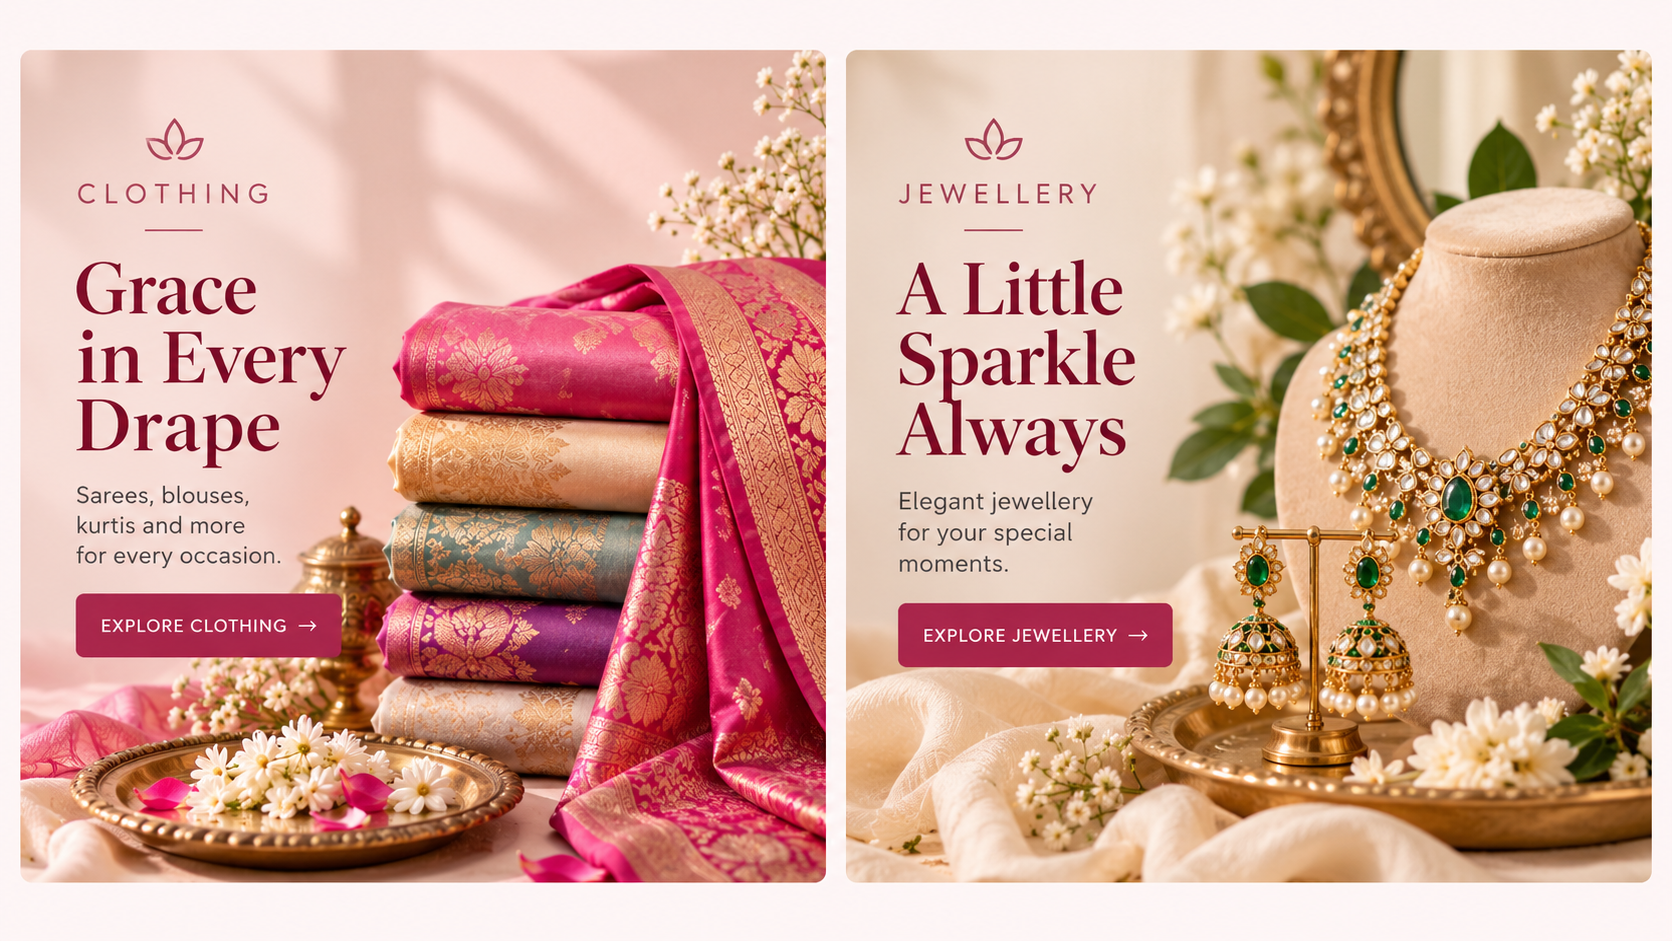
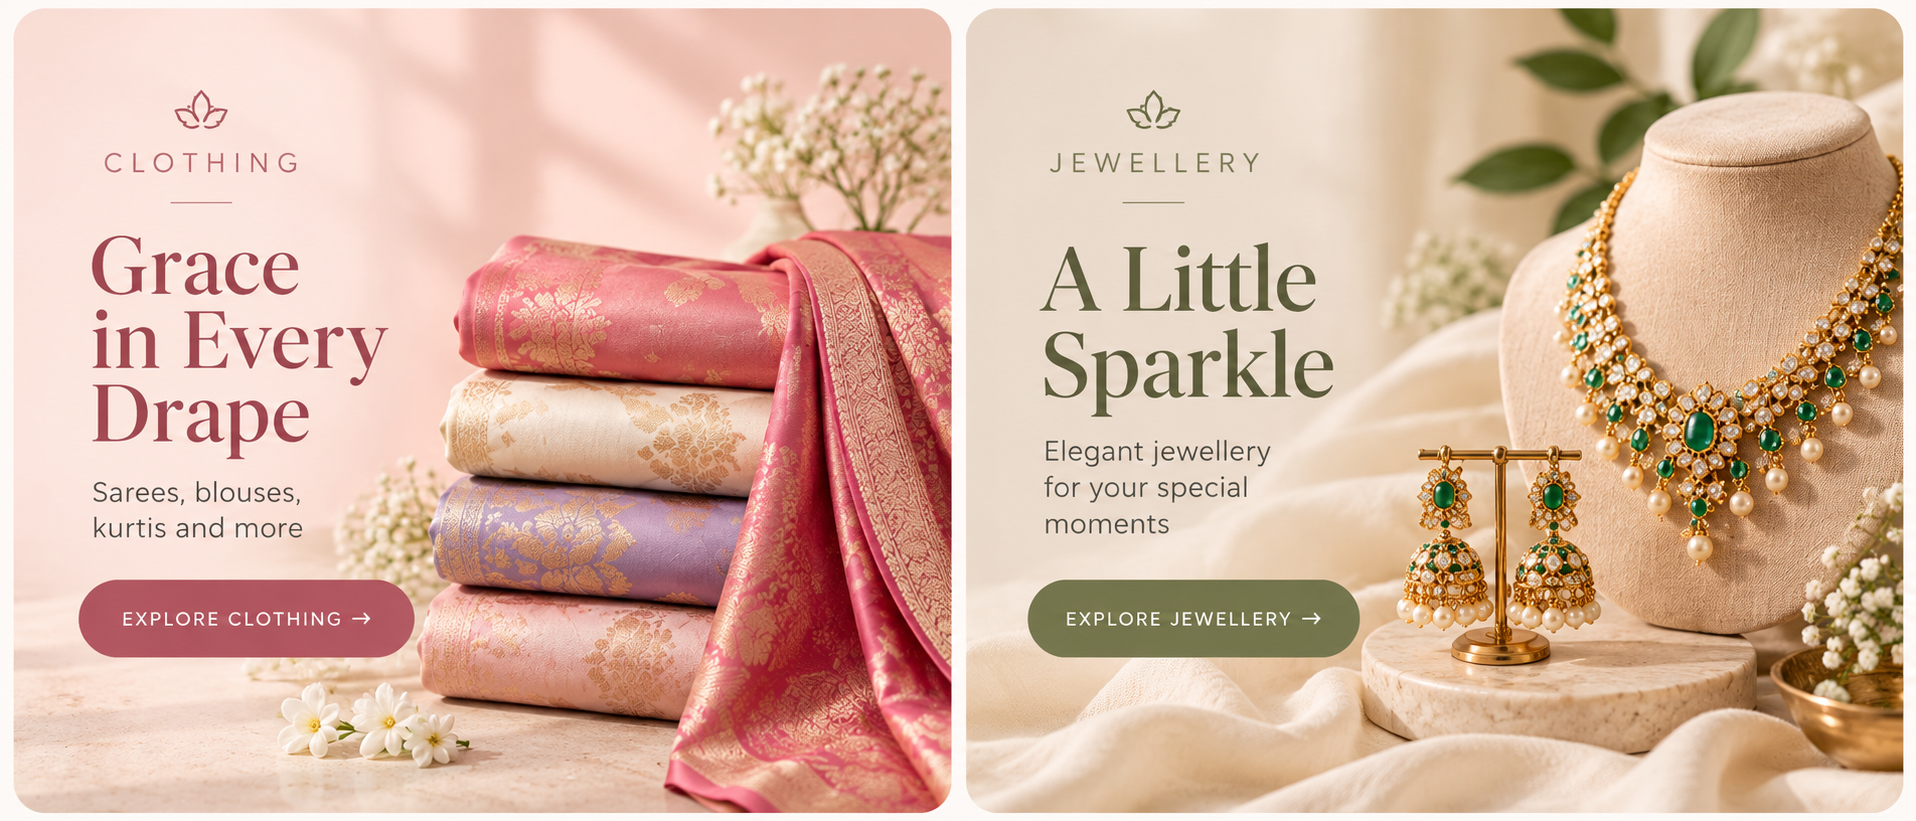
feat: Update HeroSection and Home components; enhance layout and styling for improved user experience

diff --git a/frontend/src/pages/Home.css b/frontend/src/pages/Home.css
@@ -7,7 +7,14 @@
 .eyebrow { color: var(--maroon); font-size: .68rem; font-weight: 700; letter-spacing: .22em; margin-bottom: .7rem; text-transform: uppercase; }
 .home-section-heading h2, .home-testimonials h2 { margin: 0; color: var(--text-color); font-size: clamp(2rem, 4vw, 3.35rem); font-weight: 500; letter-spacing: -.02em; }
 .home-section-heading p:last-child { margin: .7rem 0 0; color: #806f6b; }
-.category-feature-grid { display: grid; grid-template-columns: 1.15fr .85fr; gap: 1.25rem; }
+.home-category-image-section { width: 100%; padding: clamp(1rem, 3vw, 2.5rem) 0; background: var(--ivory); }
+.home-category-artwork { position: relative; width: 100%; line-height: 0; }
+.home-category-artwork img { display: block; width: 100%; height: auto; }
+.home-category-hotspot { position: absolute; top: 61%; height: 10%; cursor: pointer; outline: none; }
+.home-category-clothing { left: 4%; width: 21%; }
+.home-category-jewellery { left: 53.5%; width: 22%; }
+.home-category-hotspot:focus-visible { outline: 3px solid #b72c59; outline-offset: 3px; }
+.home-category-hotspot:hover { box-shadow: 0 0 0 3px rgba(183, 44, 89, 0.28); }
 .category-feature-card, .home-showcase-card { position: relative; min-height: 480px; overflow: hidden; color: #fff; }
 .category-feature-card img, .home-showcase-card img, .occasion-card img { width: 100%; height: 100%; object-fit: cover; transition: transform .7s ease; }
 .category-feature-card::after, .home-showcase-card::after, .occasion-card::after { content: ''; position: absolute; inset: 0; background: linear-gradient(0deg, rgba(25, 13, 16, .72), transparent 58%); }
@@ -45,5 +52,5 @@
 .testimonial-grid blockquote { margin: 0; padding: 1.5rem 0 0; border-top: 1px solid var(--gold-muted); color: #503e3b; font: 500 1.25rem/1.5 var(--heading-font); }
 .testimonial-grid cite { display: block; margin-top: 1.3rem; color: var(--maroon); font: 700 .7rem var(--body-font); letter-spacing: .13em; text-transform: uppercase; font-style: normal; }
 .testimonial-grid cite span { margin-left: .7rem; color: #887673; font-weight: 400; }
-@media (max-width: 800px) { .home-trust-strip { justify-content: flex-start; overflow-x: auto; white-space: nowrap; } .category-feature-grid, .home-editorial-band, .home-showcase-grid { grid-template-columns: 1fr; } .category-feature-card, .home-showcase-card { min-height: 430px; } .home-product-grid { grid-template-columns: repeat(2, minmax(0, 1fr)); gap: .7rem; } .occasion-grid { grid-template-columns: repeat(3, 72vw); overflow-x: auto; margin-right: -1rem; padding-right: 1rem; } .occasion-card { height: 300px; } .reason-grid { gap: 1.5rem; } }
+@media (max-width: 800px) { .home-trust-strip { justify-content: flex-start; overflow-x: auto; white-space: nowrap; } .home-editorial-band, .home-showcase-grid { grid-template-columns: 1fr; } .category-feature-card, .home-showcase-card { min-height: 430px; } .home-product-grid { grid-template-columns: repeat(2, minmax(0, 1fr)); gap: .7rem; } .occasion-grid { grid-template-columns: repeat(3, 72vw); overflow-x: auto; margin-right: -1rem; padding-right: 1rem; } .occasion-card { height: 300px; } .reason-grid { gap: 1.5rem; } }
 @media (max-width: 560px) { .home-section { padding-top: 3.8rem; padding-bottom: 3.8rem; } .home-section-heading { text-align: left; margin-bottom: 1.8rem; } .home-section-heading-inline { align-items: start; } .home-section-heading h2, .home-testimonials h2 { font-size: 2.15rem; } .home-section-heading-inline .text-link { margin-top: 1.4rem; } .category-feature-card, .home-showcase-card { min-height: 350px; } .editorial-image { min-height: 330px; } .home-showcase-grid { padding-bottom: 3.8rem; } .reason-grid, .testimonial-grid { grid-template-columns: 1fr; gap: 1.8rem; } .testimonial-grid blockquote { font-size: 1.12rem; } }

diff --git a/frontend/src/components/HeroSection.css b/frontend/src/components/HeroSection.css
@@ -16,50 +16,20 @@
   vertical-align: middle;
 }
 
-.home-hero-caption { position: absolute; left: clamp(1.5rem, 8vw, 8rem); top: 50%; max-width: 420px; color: #fff; line-height: 1.4; transform: translateY(-42%); }
-.home-hero-caption .eyebrow { color: #f4d9cd; margin-bottom: .8rem; }
-.home-hero-caption h1 { margin: 0 0 .7rem; color: #fff; font-size: clamp(2.2rem, 5vw, 4.7rem); line-height: 1.05; font-weight: 500; }
-.home-hero-caption > p:not(.eyebrow) { max-width: 340px; margin-bottom: 1.4rem; color: rgba(255,255,255,.88); font-size: clamp(.85rem, 1.5vw, 1rem); }
-
-.home-hero-cta {
-  display: inline-flex;
-  align-items: center;
-  gap: .4rem;
-  padding: .85rem 1.15rem;
-  border: 1px solid rgba(255,255,255,.7);
-  color: #fff;
-  font-size: .72rem;
-  font-weight: 700;
-  letter-spacing: .12em;
-  line-height: 1.2;
-  text-transform: uppercase;
-  transition: background .25s ease, color .25s ease;
-}
-
-.home-hero-cta:hover,
-.home-hero-cta:focus-visible {
-  background: #fff;
-  color: var(--maroon-deep);
-}
-
-@media (max-width: 1024px) {
-  .home-hero-cta {
-    top: 60%;
-    width: clamp(140px, 24vw, 210px);
-    height: clamp(40px, 6vw, 60px);
-  }
+.home-hero-image-cta {
+  position: absolute;
+  left: 16.5%;
+  top: 64%;
+  width: 20%;
+  height: 8%;
+  z-index: 1;
 }
 
 @media (max-width: 768px) {
-  .home-hero-caption { left: 1.2rem; right: 1.2rem; top: auto; bottom: 2rem; transform: none; }
-  .home-hero-caption h1 { max-width: 300px; font-size: clamp(2rem, 9vw, 3rem); }
-  .home-hero-caption > p:not(.eyebrow) { max-width: 290px; font-size: .82rem; }
-}
-
-@media (max-width: 480px) {
-  .home-hero-caption { bottom: 1.4rem; }
-  .home-hero-caption .eyebrow { margin-bottom: .45rem; font-size: .58rem; }
-  .home-hero-caption h1 { margin-bottom: .45rem; }
-  .home-hero-caption > p:not(.eyebrow) { margin-bottom: .9rem; }
-  .home-hero-cta { padding: .72rem .85rem; font-size: .61rem; }
+  .home-hero-image-cta {
+    left: 8.5%;
+    top: 51%;
+    width: 35%;
+    height: 5.5%;
+  }
 }

diff --git a/frontend/src/pages/Home.jsx b/frontend/src/pages/Home.jsx
@@ -8,6 +8,7 @@ import { products } from '../data/products';
 import { jewelleryProducts } from '../data/jewellery';
 import clothingImage from '../assets/clothinghero.png';
 import jewelleryImage from '../assets/jewelleryhero.png';
+import categoryImage from '../assets/screen2.png';
 import './Home.css';
 
 const Home = () => {
@@ -31,11 +32,11 @@ const Home = () => {
           <span><i className="bi bi-box-seam"></i> Carefully packed</span>
           <span><i className="bi bi-heart"></i> Made for your moments</span>
         </section>
-        <section className="home-section home-categories">
-          <div className="home-section-heading"><p className="eyebrow">YOUR STYLE, YOUR STORY</p><h2>Shop by category</h2><p>Pieces with an effortless sense of occasion.</p></div>
-          <div className="category-feature-grid">
-            <Link to="/clothing" className="category-feature-card category-feature-card-large"><img src={clothingImage} alt="Saree collection" /><div><span>01 / CLOTHING</span><h3>The art of the drape</h3><b>Explore sarees <i className="bi bi-arrow-up-right"></i></b></div></Link>
-            <Link to="/jewellery" className="category-feature-card"><img src={jewelleryImage} alt="Jewellery collection" /><div><span>02 / JEWELLERY</span><h3>Details that glow</h3><b>Explore jewellery <i className="bi bi-arrow-up-right"></i></b></div></Link>
+        <section className="home-category-image-section" aria-label="Choose a collection">
+          <div className="home-category-artwork">
+            <img src={categoryImage} alt="Clothing and jewellery collections" />
+            <Link to="/clothing" className="home-category-hotspot home-category-clothing" aria-label="Explore clothing" />
+            <Link to="/jewellery" className="home-category-hotspot home-category-jewellery" aria-label="Explore jewellery" />
           </div>
         </section>
         <section className="home-section home-products-section">

diff --git a/frontend/src/components/HeroSection.jsx b/frontend/src/components/HeroSection.jsx
@@ -1,6 +1,6 @@
 import React from 'react';
 import { Link } from 'react-router-dom';
-import heroImage from '../assets/homepage-hero.png';
+import heroImage from '../assets/desktophome.png';
 import mobileHeroImage from '../assets/mobilehero.png';
 import './HeroSection.css';
 
@@ -11,12 +11,7 @@ const HeroSection = () => {
         <source media="(max-width: 600px)" srcSet={mobileHeroImage} />
         <img src={heroImage} alt="ReShi Elegance fashion hero" className="home-hero-image" />
       </picture>
-      <div className="home-hero-caption">
-        <p className="eyebrow">THE NEW SEASON</p>
-        <h1>Elegance, thoughtfully chosen.</h1>
-        <p>Timeless sarees and jewellery for the moments that become memories.</p>
-        <Link to="/choose" className="home-hero-cta">Explore the collection <i className="bi bi-arrow-up-right"></i></Link>
-      </div>
+      <Link to="/choose" className="home-hero-image-cta" aria-label="Explore now" />
     </section>
   );
 };

diff --git a/frontend/src/pages/ChooseWorld.css b/frontend/src/pages/ChooseWorld.css
@@ -21,21 +21,21 @@
 
 .choose-world-hotspot {
   position: absolute;
-  top: 64%;
-  height: 6.5%;
+  top: 61%;
+  height: 10%;
   cursor: pointer;
   outline: none;
   border-radius: 0.35rem;
 }
 
 .clothing-hotspot {
-  left: 4.5%;
-  width: 16%;
+  left: 4%;
+  width: 21%;
 }
 
 .jewellery-hotspot {
   left: 53.5%;
-  width: 16.5%;
+  width: 22%;
 }
 
 .choose-world-hotspot:focus-visible {
